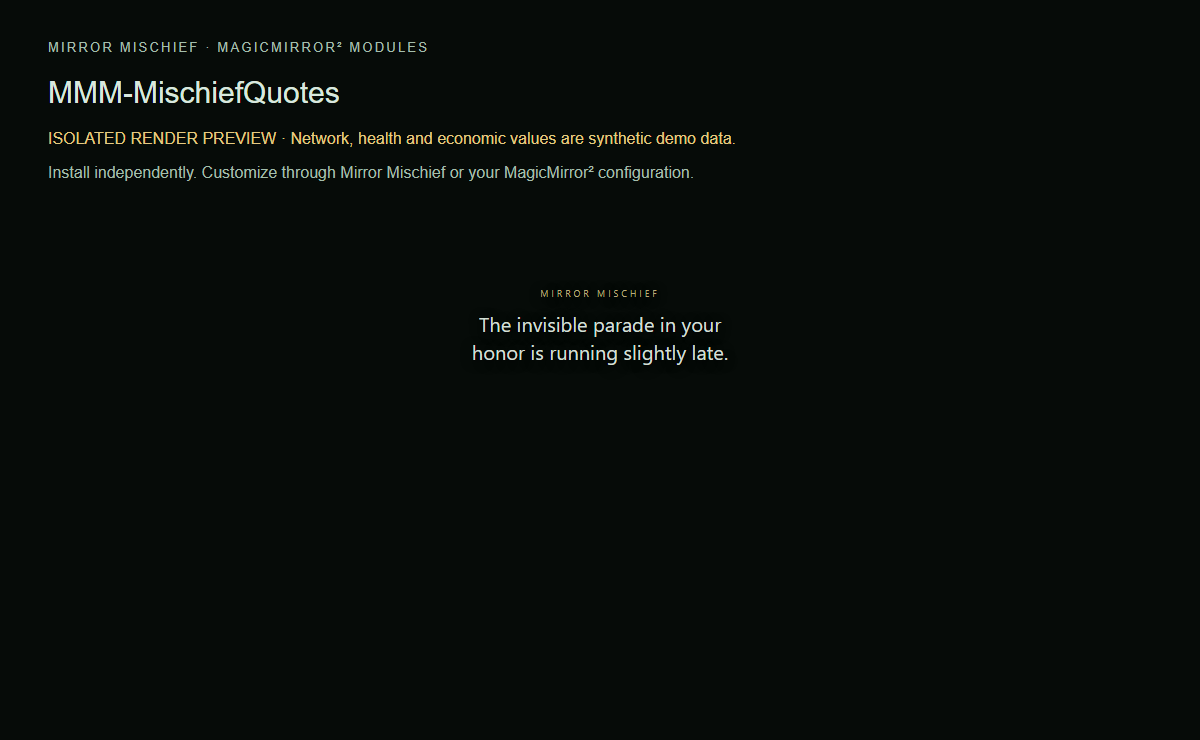
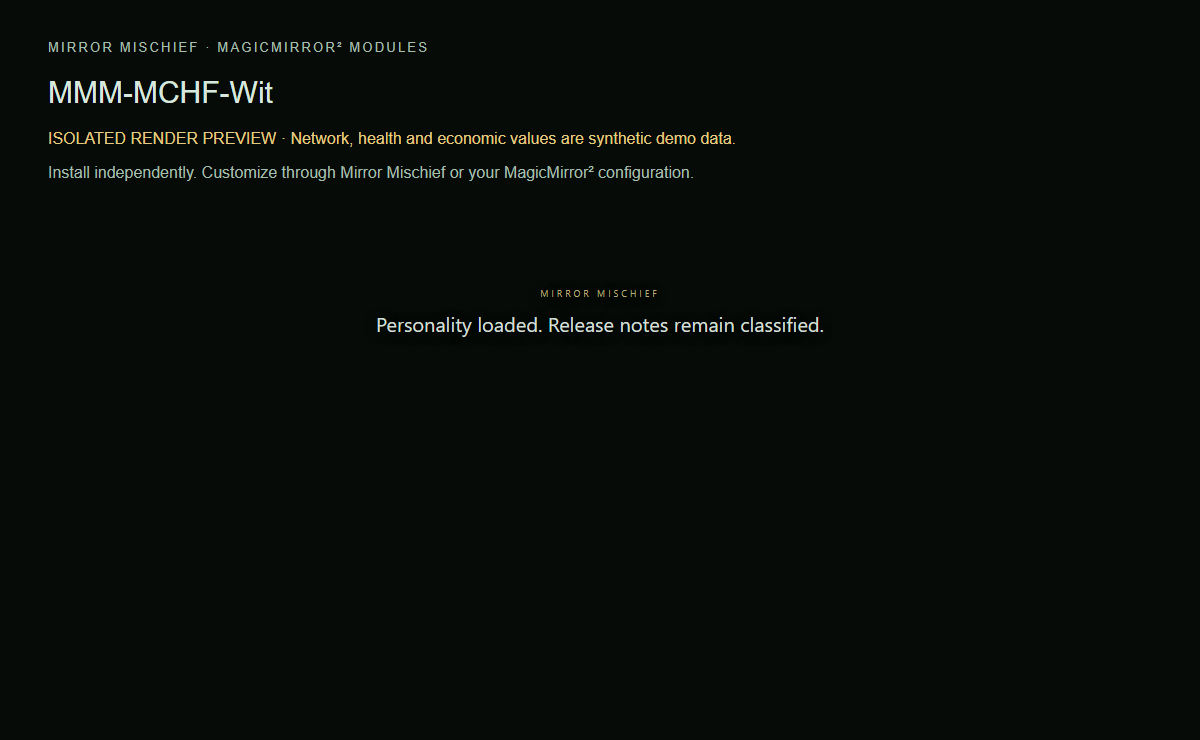
Package configurable Mischief module with manual and companion setup

Changed region(s): [[0.3083, 0.4351, 0.6783, 0.4973], [0.1233, 0.0932, 0.2775, 0.1554]]

diff --git a/docs/preview.html b/docs/preview.html
@@ -1,21 +1,21 @@
-<!doctype html><html><head><meta charset="utf-8"><title>MMM-MischiefQuotes preview</title><style>html,body{margin:0;background:#060b08;color:#d9e8df;font-family:Arial,sans-serif}body{height:740px}header{position:relative;z-index:50;padding:38px 48px;background:linear-gradient(#060b08,transparent)}small{color:#a4beac;letter-spacing:2px}h1{font-size:30px;font-weight:500}p{color:#a4beac;max-width:900px}.demo{color:#e5ca82}main{position:relative;z-index:5;display:flex;justify-content:center;padding:35px 48px}.green{color:#88c7a0}.yellow{color:#e5ca82}.red{color:#e29288}#anchors[hidden]{display:none}#anchors{display:flex;gap:80px;position:relative;z-index:2;margin:20px 90px}#anchors section{width:300px;height:110px;border:1px solid #3d5246;border-radius:8px;padding:25px;background:#102018}#error{position:relative;z-index:100;color:#f88;white-space:pre-wrap}.quiet-sky{z-index:0!important}</style></head><body><header><small>MIRROR MISCHIEF · MAGICMIRROR² MODULES</small><h1>MMM-MischiefQuotes</h1><p class="demo">ISOLATED RENDER PREVIEW · Network, health and economic values are synthetic demo data.</p><p>Install independently. Customize through Mirror Mischief or your MagicMirror² configuration.</p></header><main><div id="preview-host"></div></main><div id="anchors" hidden><section class="weather"><h2>Weather module</h2><p>Example decoration target</p></section><section class="calendar"><h2>Calendar module</h2><p>Example decoration target</p></section></div><pre id="error"></pre><script>
+<!doctype html><html><head><meta charset="utf-8"><title>MMM-MCHF-Wit preview</title><style>html,body{margin:0;background:#060b08;color:#d9e8df;font-family:Arial,sans-serif}body{height:740px}header{position:relative;z-index:50;padding:38px 48px;background:linear-gradient(#060b08,transparent)}small{color:#a4beac;letter-spacing:2px}h1{font-size:30px;font-weight:500}p{color:#a4beac;max-width:900px}.demo{color:#e5ca82}main{position:relative;z-index:5;display:flex;justify-content:center;padding:35px 48px}.green{color:#88c7a0}.yellow{color:#e5ca82}.red{color:#e29288}#anchors[hidden]{display:none}#anchors{display:flex;gap:80px;position:relative;z-index:2;margin:20px 90px}#anchors section{width:300px;height:110px;border:1px solid #3d5246;border-radius:8px;padding:25px;background:#102018}#error{position:relative;z-index:100;color:#f88;white-space:pre-wrap}.quiet-sky{z-index:0!important}</style></head><body><header><small>MIRROR MISCHIEF · MAGICMIRROR² MODULES</small><h1>MMM-MCHF-Wit</h1><p class="demo">ISOLATED RENDER PREVIEW · Network, health and economic values are synthetic demo data.</p><p>Install independently. Customize through Mirror Mischief or your MagicMirror² configuration.</p></header><main><div id="preview-host"></div></main><div id="anchors" hidden><section class="weather"><h2>Weather module</h2><p>Example decoration target</p></section><section class="calendar"><h2>Calendar module</h2><p>Example decoration target</p></section></div><pre id="error"></pre><script>
 window.Module={register(name,definition){window.definition=definition;}};
 async function boot(){
- const name="MMM-MischiefQuotes",host=document.getElementById('preview-host'),base='../';
+ const name="MMM-MCHF-Wit",host=document.getElementById('preview-host'),base='../';
  await script(base+name+'.js');
  const d=window.definition,instance={...d,config:structuredClone(d.defaults),identifier:'preview',data:{position:'top_left'},file:p=>base+p,sendSocketNotification(){},updateDom(){if(instance.root?.isConnected)return;host.replaceChildren(instance.getDom());}};
  for(const file of instance.getStyles?.()||[]){const link=document.createElement('link');link.rel='stylesheet';link.href=file;document.head.append(link);}
  for(const file of instance.getScripts?.()||[])await script(file);
- if(name.includes('Holiday')){instance.config.holidayMode='halloween';document.querySelector('#anchors').hidden=false;}
- if(name.includes('LocalConditions')){instance.config.locationConfigured=true;instance.config.latitude=40;instance.config.longitude=-74;}
- if(name.includes('SystemWatch')||name.includes('EconomyTicker'))instance.config.placement='region';
- if(name.includes('QuietSky'))instance.config.brightness=65;
+ if(name.endsWith('-Rite')){instance.config.sceneMode='manual';instance.config.activeScene='winter-glass';document.querySelector('#anchors').hidden=false;}
+ if(name.endsWith('-Air')){instance.config.locationConfigured=true;instance.config.latitude=40;instance.config.longitude=-74;}
+ if(name.endsWith('-Vigil')||name.endsWith('-Tide'))instance.config.placement='region';
+ if(name.endsWith('-Astra'))instance.config.brightness=65;
  instance.start();
  const now=Date.now();
- if(name.includes('HomeCheck'))instance.socketNotificationReceived('HOME_DATA',{version:1,observedAt:now,internet:{ok:true,ms:82}});
- if(name.includes('SystemWatch'))instance.socketNotificationReceived('WATCH_DATA',{remote:null,local:{observedAt:now,checks:[{id:'pi-cpu',name:'Mirror CPU',level:'green',detail:'12% used'},{id:'pi-memory',name:'Mirror memory',level:'green',detail:'34% used'},{id:'pi-disk',name:'Storage',level:'green',detail:'28% used'},{id:'pi-temp',name:'Temperature',level:'green',detail:'48°C'}],metrics:{uptime:86400}}});
- if(name.includes('LocalConditions'))instance.socketNotificationReceived('CONDITIONS_DATA',{air:{fetchedAt:now,reading:{value:38,category:'Good',area:'Example reporting area',miles:8,observedAt:now}},alerts:{checkedAt:now,items:[]}});
- if(name.includes('EconomyTicker'))instance.socketNotificationReceived('ECON_DATA',{warning:false,snapshot:{version:1,fetchedAt:now,indicators:[{id:'UNRATE',label:'Unemployment',value:4.1,date:'2026-10-01',basis:'monthly rate',source:'https://fred.stlouisfed.org/series/UNRATE'},{id:'CPIAUCNS',label:'Inflation',value:2.5,date:'2026-10-01',basis:'year over year',source:'https://fred.stlouisfed.org/series/CPIAUCNS'},{id:'DFF',label:'Fed funds',value:4.25,date:'2026-11-01',basis:'effective rate',source:'https://fred.stlouisfed.org/series/DFF'}]}});
+ if(name.endsWith('-Haven'))instance.socketNotificationReceived('HOME_DATA',{version:1,observedAt:now,internet:{ok:true,ms:82}});
+ if(name.endsWith('-Vigil'))instance.socketNotificationReceived('WATCH_DATA',{remote:null,local:{observedAt:now,checks:[{id:'pi-cpu',name:'Mirror CPU',level:'green',detail:'12% used'},{id:'pi-memory',name:'Mirror memory',level:'green',detail:'34% used'},{id:'pi-disk',name:'Storage',level:'green',detail:'28% used'},{id:'pi-temp',name:'Temperature',level:'green',detail:'48°C'}],metrics:{uptime:86400}}});
+ if(name.endsWith('-Air'))instance.socketNotificationReceived('CONDITIONS_DATA',{air:{fetchedAt:now,reading:{value:38,category:'Good',area:'Example reporting area',miles:8,observedAt:now}},alerts:{checkedAt:now,items:[]}});
+ if(name.endsWith('-Tide'))instance.socketNotificationReceived('ECON_DATA',{warning:false,snapshot:{version:1,fetchedAt:now,indicators:[{id:'UNRATE',label:'Unemployment',value:4.1,date:'2026-10-01',basis:'monthly rate',source:'https://fred.stlouisfed.org/series/UNRATE'},{id:'CPIAUCNS',label:'Inflation',value:2.5,date:'2026-10-01',basis:'year over year',source:'https://fred.stlouisfed.org/series/CPIAUCNS'},{id:'DFF',label:'Fed funds',value:4.25,date:'2026-11-01',basis:'effective rate',source:'https://fred.stlouisfed.org/series/DFF'}]}});
  host.className='module '+name;host.replaceChildren(instance.getDom());instance.notificationReceived?.('DOM_OBJECTS_CREATED');
  document.documentElement.dataset.previewStatus='ready';
 }

diff --git a/MMM-MCHF-Wit.js b/MMM-MCHF-Wit.js
@@ -1,0 +1,17 @@
+/* global Module,MischiefPhrases */
+Module.register('MMM-MCHF-Wit',{
+ requiresVersion:'2.38.0',
+ defaults:{humorStyle:'mixed',updateSeconds:300,panelWidth:620,textSize:'normal',showLabel:true,contextAware:true,includeBuiltIn:true,maxCharacters:120,customPhrases:[],transitionStyle:'fade',transitionMs:900},
+ getScripts(){return [this.file('phrase-book.js')];},getStyles(){return [this.file('mischief-surfaces.css'),this.file('MMM-MCHF-Wit.css')];},
+ start(){this.generator=MischiefPhrases.create();this.phrase=this.generator.next(this.config);this.paused=false;this.transitionId=0;this.visibility=()=>{this.cancelTransition();if(document.hidden)clearTimeout(this.timer);else this.schedule();};document.addEventListener('visibilitychange',this.visibility);this.schedule();},
+ schedule(){clearTimeout(this.timer);if(this.paused||document.hidden)return;const n=Number(this.config.updateSeconds),seconds=Number.isFinite(n)?Math.min(3600,Math.max(30,n)):300;this.timer=setTimeout(()=>{this.changePhrase();},seconds*1000);},
+ cancelTransition(){this.transitionId++;this.transition?.cancel();this.transition=null;},
+ async changePhrase(){const next=this.generator.next(this.config),id=++this.transitionId,line=this.line,reduced=typeof window!=='undefined'&&window.matchMedia?.('(prefers-reduced-motion: reduce)').matches;
+  const n=Number(this.config.transitionMs),duration=Number.isFinite(n)?Math.min(2400,Math.max(200,n)):900;
+  if(this.config.transitionStyle!=='fade'||reduced||!line?.animate){this.phrase=next;if(line)line.textContent=next;this.schedule();return;}
+  try{this.transition=line.animate([{opacity:1},{opacity:0}],{duration:duration/2,easing:'ease-in',fill:'forwards'});await this.transition.finished;if(id!==this.transitionId||this.paused||document.hidden)return;this.phrase=next;line.textContent=next;this.transition.cancel();this.transition=line.animate([{opacity:0},{opacity:1}],{duration:duration/2,easing:'ease-out',fill:'forwards'});await this.transition.finished;}catch{ /* Cancelled when hidden or suspended. */ }
+  finally{if(id===this.transitionId){this.transition?.cancel();this.transition=null;this.schedule();}}
+ },
+ suspend(){this.paused=true;clearTimeout(this.timer);this.cancelTransition();},resume(){this.paused=false;this.schedule();},
+ getDom(){if(!this.root){this.root=document.createElement('section');this.root.className='mischief-quote '+(this.config.textSize==='large'?'mischief-quote-large':'');const width=Number(this.config.panelWidth);this.root.style.width=Math.min(900,Math.max(280,Number.isFinite(width)?width:620))+'px';this.root.setAttribute('aria-label','Mirror Mischief one-liner');if(this.config.showLabel!==false){const label=document.createElement('div');label.className='mischief-quote-label';label.textContent='MIRROR MISCHIEF';this.root.append(label);}this.line=document.createElement('div');this.line.className='mischief-quote-line';this.line.textContent=this.phrase;this.root.append(this.line);}return this.root;}
+});

diff --git a/mischief-surfaces.css b/mischief-surfaces.css
@@ -1,0 +1,11 @@
+/* Mirror Mischief earthy card surfaces. Standard MagicMirror classes; no script required. */
+.mischief-earth-moss{--mischief-earth-bg:#1e3025;--mischief-earth-line:#52654d}
+.mischief-earth-sage{--mischief-earth-bg:#2b3930;--mischief-earth-line:#71816b}
+.mischief-earth-clay{--mischief-earth-bg:#3c2c26;--mischief-earth-line:#80614f}
+.mischief-earth-sand{--mischief-earth-bg:#393327;--mischief-earth-line:#82795a}
+.mischief-earth-walnut{--mischief-earth-bg:#30271f;--mischief-earth-line:#6d5741}
+.mischief-earth-slate{--mischief-earth-bg:#273236;--mischief-earth-line:#607577}
+.mischief-earth-peat{--mischief-earth-bg:#24241f;--mischief-earth-line:#62634e}
+.module[class*="mischief-earth-"]:not(.MMM-MCHF-Rite):not(.MMM-MCHF-Atmos):not(.MMM-MCHF-Astra) .module-content{background:var(--mischief-earth-bg);border:1px solid var(--mischief-earth-line);border-radius:14px;padding:14px 16px;box-sizing:border-box;box-shadow:0 8px 24px #0003;color:#e9e6dc}
+.module[class*="mischief-earth-"]:not(.MMM-MCHF-Rite):not(.MMM-MCHF-Atmos):not(.MMM-MCHF-Astra) .module-content>:is(section,div):not(.mischief-scene-overlay):not(.mischief-atmos){background:var(--mischief-earth-bg)!important;border-color:var(--mischief-earth-line)!important;color:#e9e6dc}
+@media(prefers-reduced-motion:reduce){.animate__animated{animation-duration:1ms!important;animation-iteration-count:1!important;transition-duration:1ms!important}}

diff --git a/MMM-MCHF-Wit.css b/MMM-MCHF-Wit.css
@@ -1,0 +1,2 @@
+.mischief-quote{box-sizing:border-box;max-width:calc(100vw - 40px);min-width:260px;margin:auto;padding:16px 8px;text-align:center;color:#d3dfd6;text-shadow:0 2px 12px #000;font:25px/1.4 'Segoe UI',Arial,sans-serif}.mischief-quote-label{font-size:9px;line-height:1.4;letter-spacing:3px;color:#b9ab7e;margin-bottom:10px}.mischief-quote-large{font-size:30px}.mischief-quote-line{min-height:2.8em;text-wrap:balance;overflow-wrap:break-word}
+@media(max-width:1200px){.mischief-quote{max-width:calc(100vw - 40px);font-size:20px}.mischief-quote-large{font-size:23px}}

diff --git a/example.config.js b/example.config.js
@@ -1,5 +1,9 @@
 module.exports = {
-  module: "MMM-MischiefQuotes",
-  position: "middle_center",
-  config: {}
+  "module": "MMM-MCHF-Wit",
+  "position": "middle_center",
+  "animateIn": "flipInX",
+  "config": {
+    "transitionStyle": "fade",
+    "transitionMs": 900
+  }
 };

diff --git a/README.md b/README.md
@@ -1,10 +1,10 @@
-# MMM-MischiefQuotes
+# MMM-MCHF-Wit
 
 Original offline humor with custom phrases and no API key.
 
 Part of [Mirror Mischief](https://github.com/FoggEyez/Mirror-Mischief). Install and configure manually, or use the optional companion.
 
-![MMM-MischiefQuotes rendered example](docs/screenshot.png)
+![MMM-MCHF-Wit rendered example](docs/screenshot.png)
 
 Screenshot uses the actual module renderer in an isolated preview. Network/health/economy readings are labelled synthetic demonstration data, not live readings.
 
@@ -14,7 +14,7 @@ Requires a working MagicMirror² installation, Node.js 22 or newer, and a curren
 
 ```sh
 cd ~/MagicMirror/modules
-git clone https://github.com/FoggEyez/MMM-MischiefQuotes.git
+git clone https://github.com/FoggEyez/MMM-MCHF-Wit.git
 ```
 
 No npm runtime dependencies or install scripts. No extra services are required.
@@ -23,15 +23,19 @@ Add this to the modules array in config/config.js, then restart MagicMirror²:
 
 ```js
 {
-  module: "MMM-MischiefQuotes",
-  position: "middle_center",
-  config: {}
+  "module": "MMM-MCHF-Wit",
+  "position": "middle_center",
+  "animateIn": "flipInX",
+  "config": {
+    "transitionStyle": "fade",
+    "transitionMs": 900
+  }
 }
 ```
 
 ## Customize
 
-Choose `humorStyle`: mixed, dry, absurd or nerdy. Use `customPhrases` for your own messages and `includeBuiltIn: false` for custom-only mode. An empty custom-only collection safely falls back to the bundled original phrases. `updateSeconds` is clamped to 30–3600; `maxCharacters` to 60–180. Changes preserve the text element without fades.
+Choose `humorStyle`: mixed, dry, absurd or nerdy. Use `customPhrases` for your own messages and `includeBuiltIn: false` for custom-only mode. An empty custom-only collection safely falls back to the bundled original phrases. `updateSeconds` is clamped to 30–3600; `maxCharacters` to 60–180. The default transitionStyle is fade: only the phrase fades out and in over transitionMs (200–2400 milliseconds, default 900). Use none for instant changes. Reduced-motion preferences skip the fade. The module element stays in place.
 
 All supported settings are visible as literal defaults for generated settings editors.
 
@@ -46,6 +50,8 @@ All supported settings are visible as literal defaults for generated settings ed
 | includeBuiltIn | `true` | boolean |
 | maxCharacters | `120` | number |
 | customPhrases | `[]` | array |
+| transitionStyle | `"fade"` | string |
+| transitionMs | `900` | number |
 
 ## Mirror Mischief companion
 

diff --git a/RELEASE-NOTES.md b/RELEASE-NOTES.md
@@ -1,7 +1,5 @@
-# 0.1.0 public preview
+# 0.2.0 public preview
 
-Standalone Mischief package for MagicMirror² 2.38.0 or newer with manual installation, a complete settings reference, examples, Mirror Mischief companion guidance, attribution and rendered previews.
+Adopts the shorter owner-approved MMM-MCHF-Wit name and shared earthy card surface styles. Back up the existing folder/configuration; install the newly named folder and change its module entry together. GitHub redirects do not rename an installed folder.
 
-Automated package/model/failure-path checks and isolated browser rendering were run locally. Provider/health/economy screenshot values are explicitly synthetic. Independent physical-mirror installation remains to be verified. One instance per module is supported.
-
-The companion is optional and its public installer is not yet released. See MIRROR-MISCHIEF.md and VALIDATION.md. Preserve private settings and local customizations before upgrading an existing folder.
+Manual configuration and the optional Mirror Mischief companion are supported. Independent physical-device coverage and performance depend on the mirror setup; see VALIDATION.md.

diff --git a/CHANGELOG.md b/CHANGELOG.md
@@ -1,5 +1,7 @@
 # Changelog
 
-## 0.1.0
+## 0.2.0
 
-Initial standalone Mischief package with configurable defaults, installation examples and companion metadata.
+Shorter Mischief identity: MMM-MCHF-Wit. Shared earthy card surfaces and optional native entrance effects. Configurable phrase-only fades with cancellation and reduced-motion support.
+
+Earlier releases used the previous longer Mischief module name.

diff --git a/MIRROR-MISCHIEF.md b/MIRROR-MISCHIEF.md
@@ -1,3 +1,5 @@
+**MCHF = Mischief. Wit — Humor with personality.**
+
 # Use this module with Mirror Mischief
 
 [Mirror Mischief project hub](https://github.com/FoggEyez/Mirror-Mischief) · [All Mischief modules](https://github.com/FoggEyez/Mirror-Mischief#mirror-mischief)
